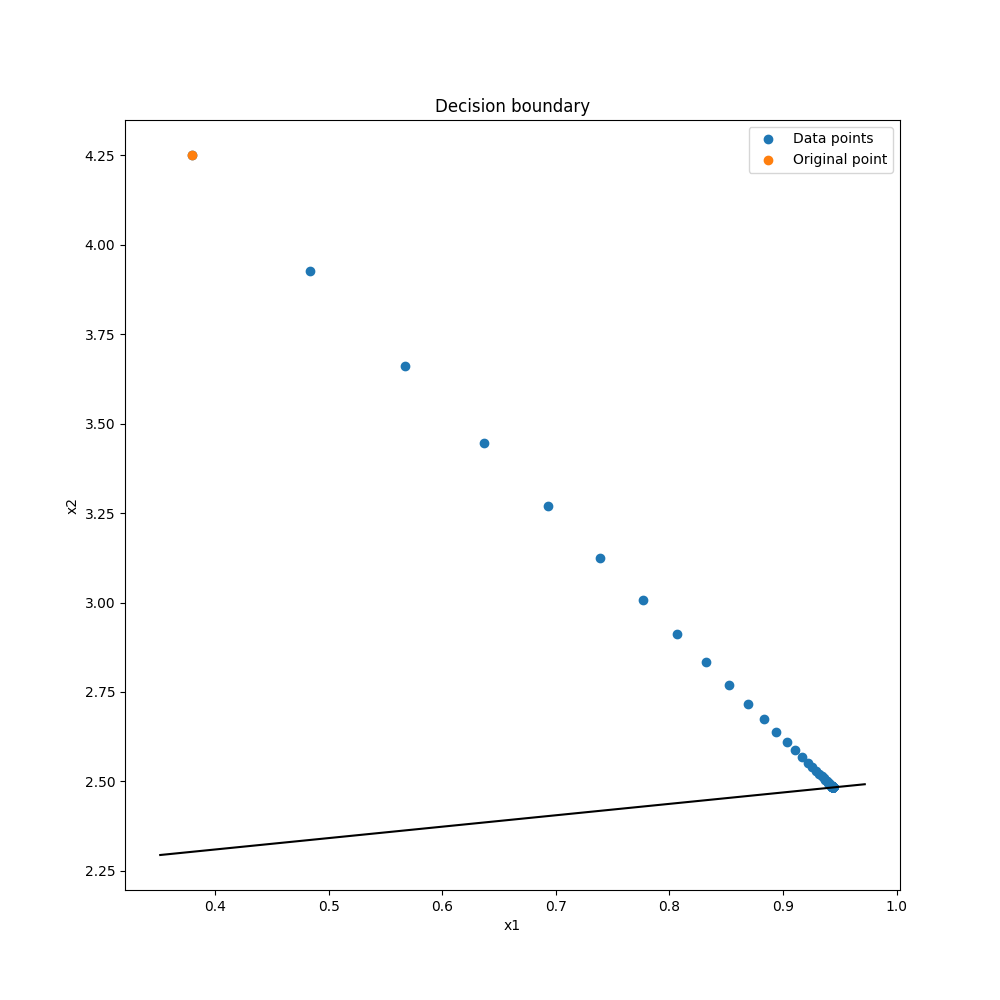
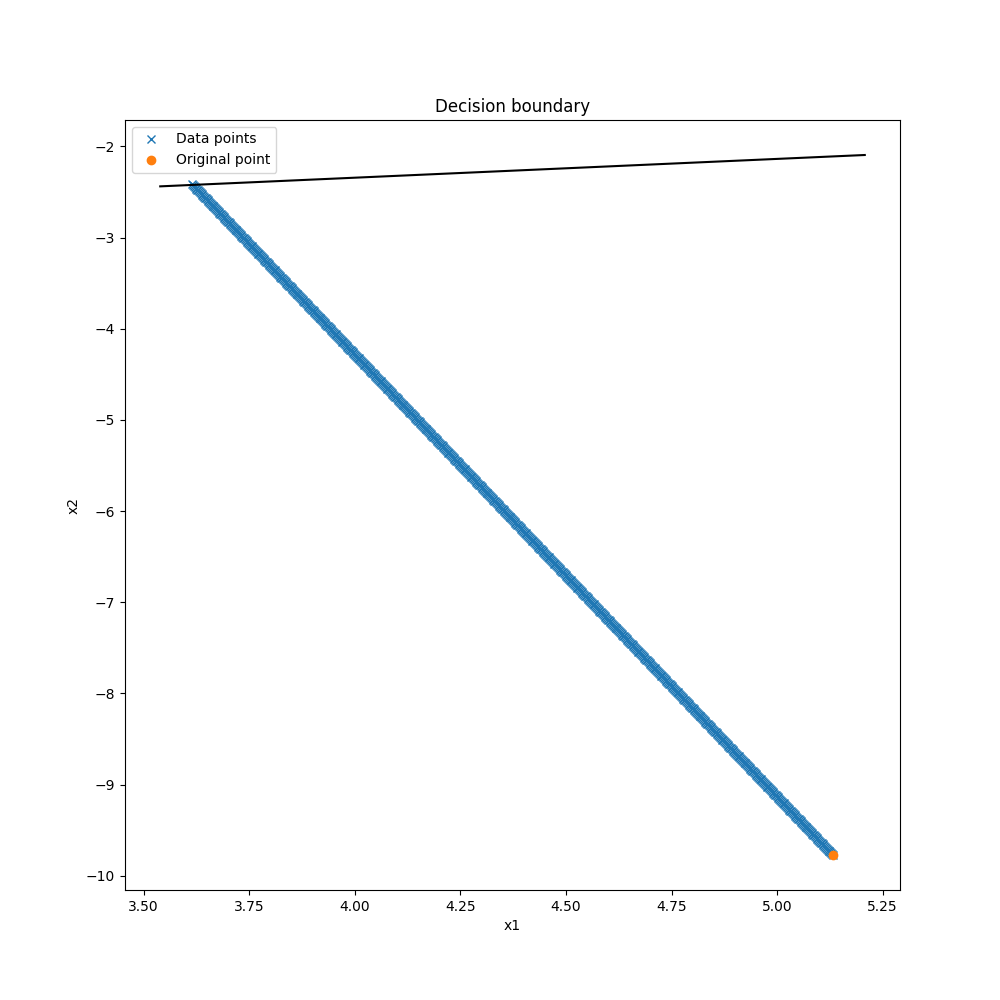
FIX(fgsm): grad 3

diff --git a/mlsecu/adversarial_ml_attack_implem.py b/mlsecu/adversarial_ml_attack_implem.py
@@ -26,34 +26,36 @@ def fgsm_attack_svm_2c(classifier:svm.SVC, orig_point, dist_function, step=None,
     if step is None:
         step = 0.01
     i =0
-    
+    step/=1
     print("Original class:", orig_class)
     eps_evol = [current_eps]
     data_points_pos =[data_point]
     while orig_class == new_class:
         if current_eps < epsilon and i < max_step:
-            grad = classifier.decision_function(data_point.reshape(1, -1))[0] * classifier.coef_[0]
+            grad = np.sign(classifier.decision_function(data_point.reshape(1, -1))[0]) * classifier.coef_[0]
             data_point = data_point - step *  grad
             data_points_pos.append(data_point)
             new_class = classifier.predict(data_point.reshape(1, -1))[0]
             current_eps = dist_function(data_point,orig_point)
             attack_info = data_point, current_eps
-            eps_evol.append(current_eps)
         else:
+            print("Attack failed")
+            print("Current class:", new_class)
+            print("Original class:", orig_class)
             attack_info = (None, None)
             
             if current_eps > epsilon:
                 print("Attack failed: epsilon exceeded",current_eps)
-            if step >= max_step:
+            if i >= max_step:
                 print("Attack failed: max step exceeded")
             print("Step:", i)
-            
-            return classifier.decision_function(data_point.reshape(1, -1))[0],0
+            break
+            #return classifier.decision_function(data_point.reshape(1, -1))[0],0
         i += step
     print("decision function",classifier.decision_function(data_point.reshape(1, -1))[0])
     fig, ax = plt.subplots(figsize=(10, 10))
     data_points_pos = np.array(data_points_pos)
-    ax.plot(data_points_pos[:,0],data_points_pos[:,1], marker="o", linestyle="", label="Data points")
+    ax.plot(data_points_pos[:,0],data_points_pos[:,1], marker="x", linestyle="", label="Data points")
     ax.plot(orig_point[0],orig_point[1], marker="o", linestyle="", label="Original point")
     # plot the line which separates the two classes
     w = classifier.coef_[0]
@@ -77,16 +79,16 @@ def fgsm_attack_svm_2c(classifier:svm.SVC, orig_point, dist_function, step=None,
 if __name__ == "__main__":
     
     
-    
-    X , y = make_blobs(n_samples=1000, centers=2, n_features=2, random_state=0)
+    import random
+    X , y = make_blobs(n_samples=1000, centers=2, n_features=2, random_state=10)
     # Split data
-    X_train, X_test, y_train, y_test = train_test_split(X, y, random_state=0)
+    X_train, X_test, y_train, y_test = train_test_split(X, y, random_state=random.randint(0,1000))
     # Train model
     clf = svm.SVC(kernel='linear', C=1).fit(X_train, y_train)
     
     dist_func = lambda x, y: np.linalg.norm(x - y)
     
-    orig_point = X_test[0] 
+    orig_point = random.choice(X_test)
     
     attack_info = fgsm_attack_svm_2c(clf, orig_point, dist_function=dist_func,step=0.05)
     print("Attack info:", attack_info)
